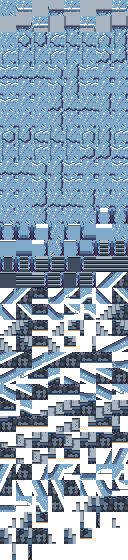
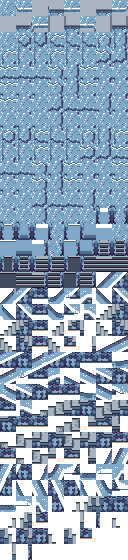
fix(cliffs): thread biome wall material through diagonal flight support body
Diagonal stair/ramp flights built their solid support body from a
hardcoded wallFace("rock", ...), so on the ice preset the flight bodies
rendered as dark desert rock against the otherwise ice-colored cliff.
diagonalFlightTiles now takes a wallMaterial param (default "rock",
preserving desert bytes) and generate.ts / render-cliff-review.mts pass
the preset's own p.material through. Only cliffIce.png changed; desert
cliff.png is confirmed byte-identical.

Claude-Session: https://claude.ai/code/session_01CsoGbggLTgKSVFsJfMxvyd

diff --git a/tools/pipeline/src/cliffs/diagonalRamps.ts b/tools/pipeline/src/cliffs/diagonalRamps.ts
@@ -152,7 +152,7 @@
 import { PixelGrid, type Cell } from "../grid";
 import type { PaletteName } from "../../../../src/shared/palette";
 import { h2 } from "./noise";
-import { wallFace } from "./materials";
+import { wallFace, type MaterialKey } from "./materials";
 import { RAMP_WALL_PARAMS } from "./ramps";
 import { TERRAIN_RAMPS, type Ramp } from "./palette";
 
@@ -641,13 +641,15 @@ export function diagonalFlightTiles(
   dir: DiagonalDir,
   p: DiagonalRampParams,
   angle: DiagonalAngle = "45",
-  groundRamp: Ramp = TERRAIN_RAMPS.sand
+  groundRamp: Ramp = TERRAIN_RAMPS.sand,
+  wallMaterial: MaterialKey = "rock"
 ): { piece: DiagonalPiece; grid: PixelGrid }[] {
   const a = ANGLES[angle];
-  // The flight's support body — the same rock the cliff face / straight
-  // ramp walls use, so the whole solid mass reads as the same stone and is
-  // pixel-identical to the face autotile wherever it is over the cliff.
-  const rock = wallFace("rock", RAMP_WALL_PARAMS, p.seed);
+  // The flight's support body — the same wall material the cliff face /
+  // straight ramp walls use for this biome preset, so the whole solid mass
+  // reads as the same stone/ice and is pixel-identical to the face autotile
+  // wherever it is over the cliff.
+  const rock = wallFace(wallMaterial, RAMP_WALL_PARAMS, p.seed);
   const run = (gx: number, gy: number): Cell => runSolidCell(a, material, rock, groundRamp, gx, gy);
   const runTop = (gx: number, gy: number): Cell => runTopCell(a, material, rock, groundRamp, gx, gy);
   const fc = (gx: number, gy: number): Cell => footCell(a, material, rock, groundRamp, gx, gy);

diff --git a/tools/pipeline/src/cliffs/generate.ts b/tools/pipeline/src/cliffs/generate.ts
@@ -211,7 +211,7 @@ export function generateTerrain(p: TerrainParams): { name: string; grid: PixelGr
     for (const m of p.ramps) {
       const matName = m === "sandSlope" ? "Sand" : "Steps";
       for (const dir of dirs) {
-        const tiles = diagonalFlightTiles(m, dir, { seed: p.seed }, "45", groundRamp);
+        const tiles = diagonalFlightTiles(m, dir, { seed: p.seed }, "45", groundRamp, p.material);
         for (const t of tiles) {
           out.push({
             name: `dramp${matName}45_${dir}_${t.piece}`,
@@ -229,7 +229,7 @@ export function generateTerrain(p: TerrainParams): { name: string; grid: PixelGr
       for (const m of p.ramps) {
         const matName = m === "sandSlope" ? "Sand" : "Steps";
         for (const dir of dirs) {
-          const tiles = diagonalFlightTiles(m, dir, { seed: p.seed }, angle, groundRamp);
+          const tiles = diagonalFlightTiles(m, dir, { seed: p.seed }, angle, groundRamp, p.material);
           for (const t of tiles) {
             out.push({
               name: `dramp${matName}${tag}_${dir}_${t.piece}`,

diff --git a/tests/pipeline/determinism.test.ts b/tests/pipeline/determinism.test.ts
@@ -405,7 +405,7 @@ describe("cliff tileset byte-stability", () => {
   // 370 named tiles + 6 blank pad (8 columns x 47 rows). Visual look approved before pinning.
   const FROZEN = {
[3 lines of base64/hex data omitted]
   } as const;
 
   it("cliff.png encodes to its committed bytes", () => {